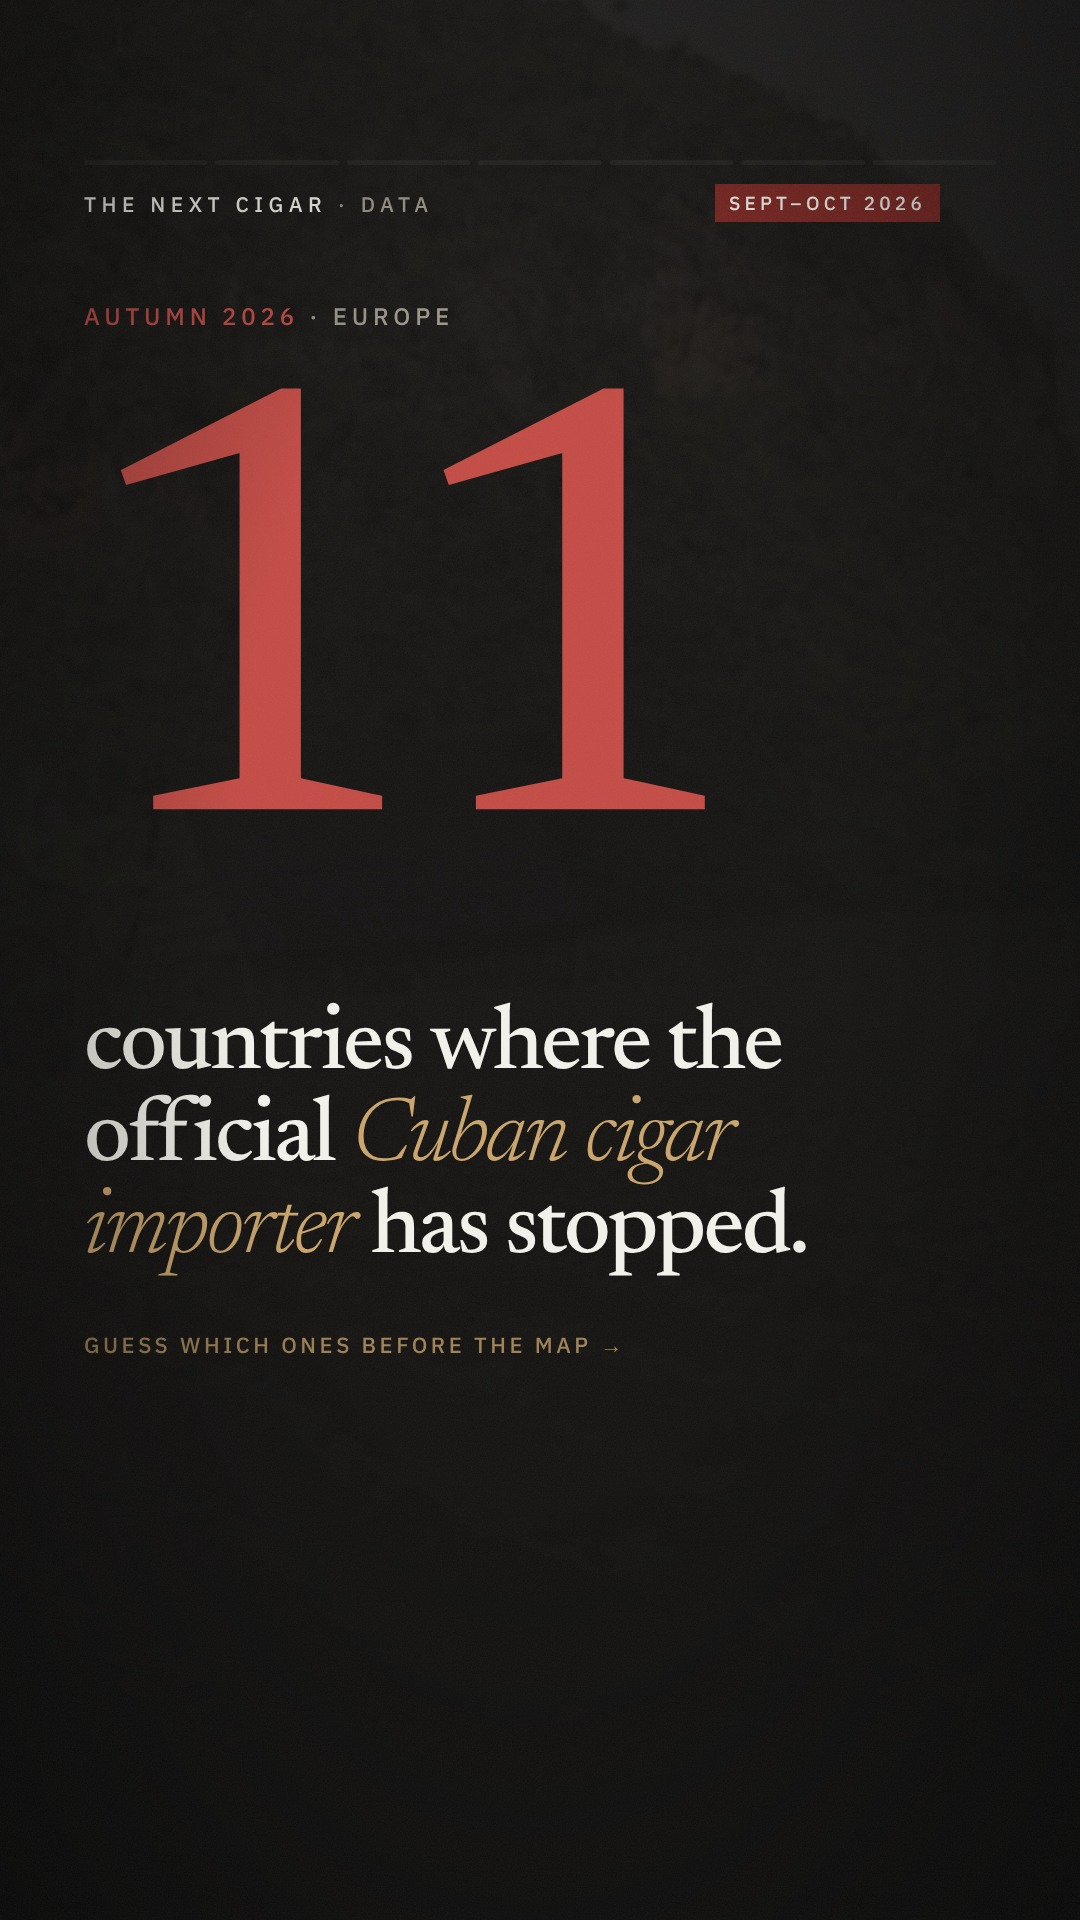
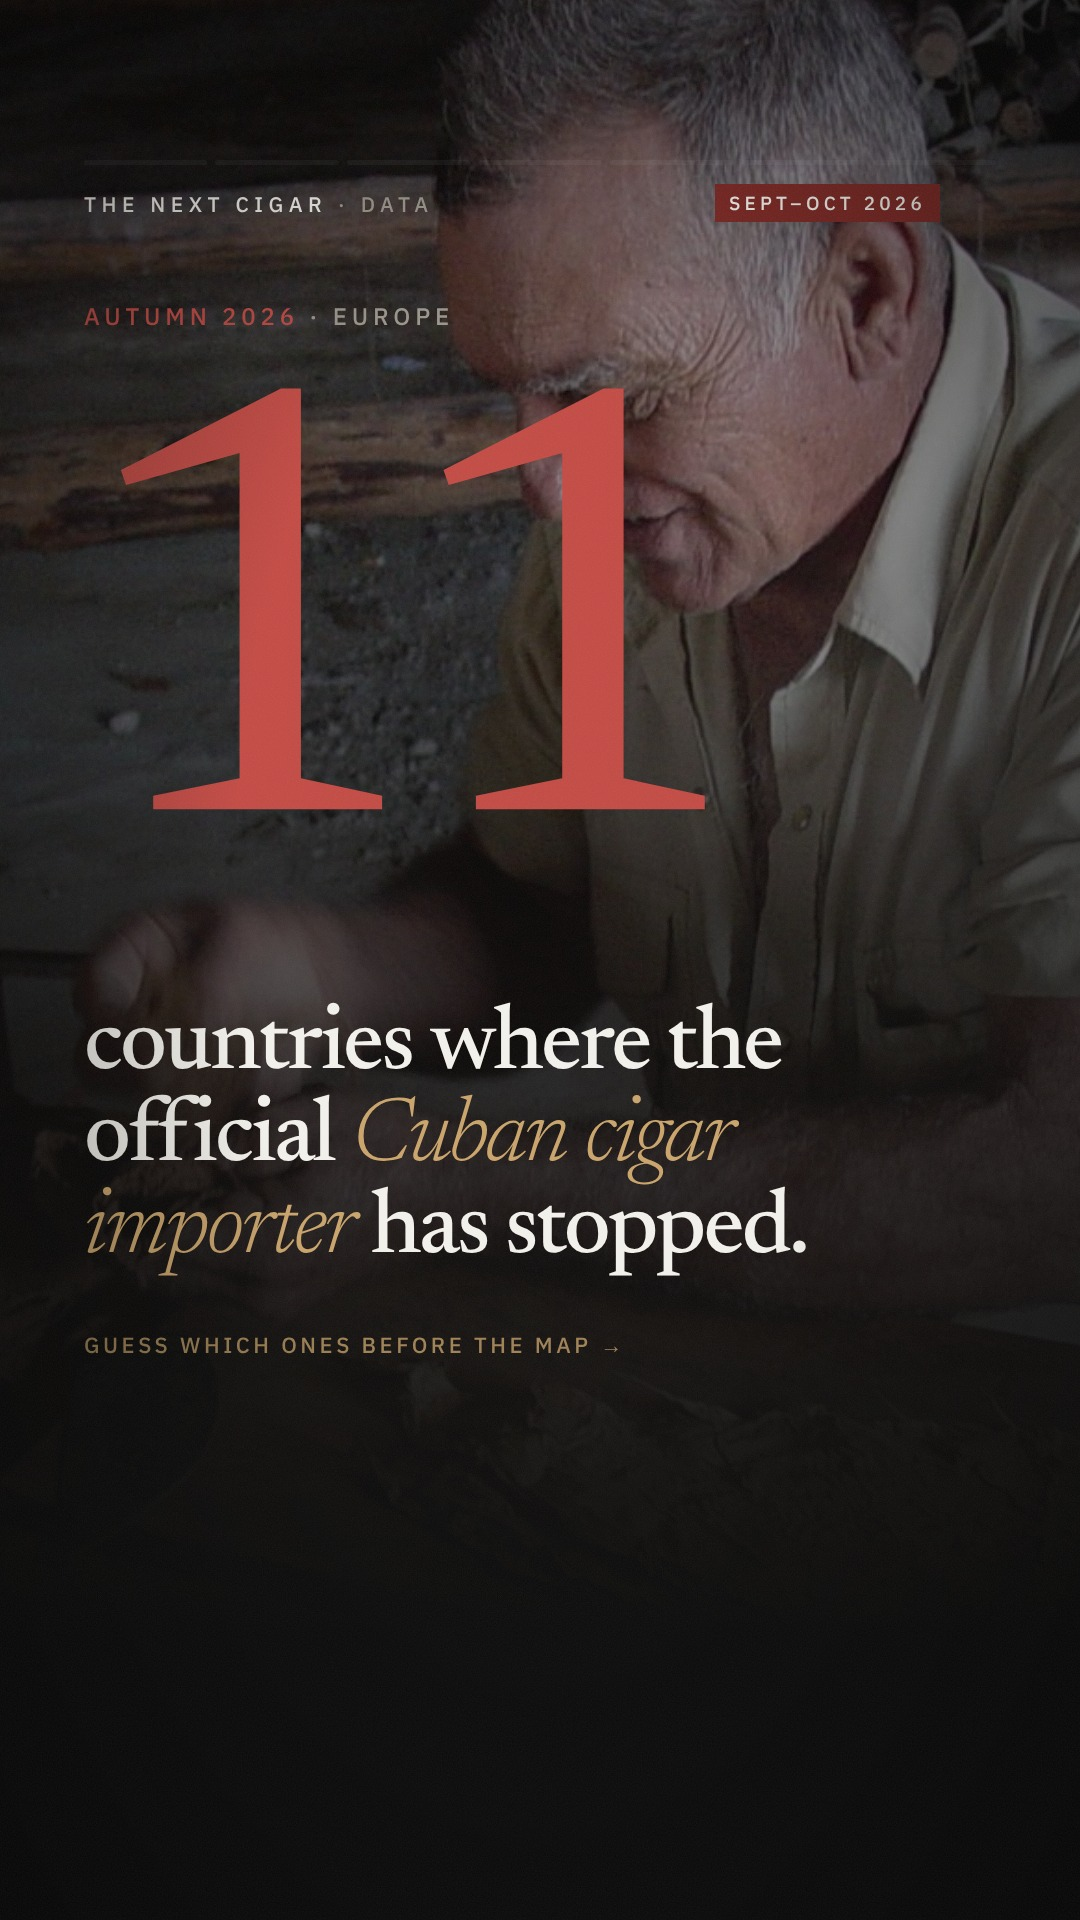
Reel 01 v2: real cigar-world photos featured on hook, Germany, Sweden and outro scenes; credits updated
Claude-Session: https://claude.ai/code/session_01NDc9TrKsSQw4dbaGwkoFWp

diff --git a/docs/social/reels/01-autumn-2026-roundup/source-v2.html b/docs/social/reels/01-autumn-2026-roundup/source-v2.html
@@ -19,6 +19,13 @@ html,body{margin:0;background:#000}
 .sc{position:absolute;inset:0;will-change:transform,opacity,clip-path;background:var(--bg)}
 .edge{position:absolute;top:0;bottom:0;width:6px;background:var(--ox);z-index:35;display:none}
 .bg{position:absolute;inset:-40px;background-size:cover;background-position:center;filter:blur(2px) saturate(.75);opacity:.22}
+.bg.strong{filter:saturate(.9) contrast(1.05);opacity:.75}
+.bg.strong:after{background:linear-gradient(180deg,rgba(18,17,16,.35) 0%,rgba(18,17,16,.25) 30%,rgba(18,17,16,.85) 62%,#121110 80%)}
+.bg.top{filter:saturate(.9);opacity:.7}
+.bg.top:after{background:linear-gradient(180deg,rgba(18,17,16,.6) 0%,rgba(18,17,16,.2) 25%,rgba(18,17,16,.55) 42%,#121110 55%)}
+.ph{position:absolute;overflow:hidden;box-shadow:0 30px 80px rgba(0,0,0,.7);will-change:transform,opacity}
+.ph img{position:absolute;inset:0;width:100%;height:100%;object-fit:cover}
+.ph .cr{position:absolute;left:12px;bottom:8px;font-family:'Plex';font-size:14px;color:rgba(242,240,234,.85);text-shadow:0 1px 6px #000}
 .bg:after{content:"";position:absolute;inset:0;background:linear-gradient(180deg,rgba(18,17,16,.55),rgba(18,17,16,.92) 55%,#121110)}
 .k{position:absolute;left:84px;top:270px;font-family:'Plex';font-weight:500;font-size:24px;letter-spacing:.2em;text-transform:uppercase;color:var(--mute)}
 .k b{color:var(--ox);font-weight:500}
@@ -50,7 +57,7 @@ const nord=['IS','NO','SE','FI','DK','EE','LV','LT'], germ=['DE','AT','PL'];
 
 const S=[]; // scenes: {dur, el, draw(local t seconds, p)}
 const root=document.getElementById('scenes');
-function scene(dur,html,img,draw){const el=$(`<div class="sc">${img?`<div class="bg" style="background-image:url(img/${img})"></div>`:''}${html}</div>`);root.appendChild(el);const o={dur,el,draw};o.init&&o.init();S.push(o);return o;}
+function scene(dur,html,img,draw,bgc=''){const el=$(`<div class="sc">${img?`<div class="bg ${bgc}" style="background-image:url(img/${img})"></div>`:''}${html}</div>`);root.appendChild(el);const o={dur,el,draw};o.init&&o.init();S.push(o);return o;}
 
 /* 0 HOOK */
 {const s=scene(3.4,`<div>
@@ -58,7 +65,7 @@ function scene(dur,html,img,draw){const el=$(`<div class="sc">${img?`<div class=
  <div id="h_n" class="big" style="position:absolute;left:70px;top:400px;font-size:620px;color:var(--ox)">0</div>
  <div id="h_t" style="position:absolute;left:84px;right:130px;top:1000px;font-size:92px;line-height:1;letter-spacing:-.03em;font-weight:500">countries where the official <i style="font-weight:300;color:var(--gold)">Cuban cigar importer</i> has stopped.</div>
  <div id="h_q" class="lbl" style="position:absolute;left:84px;top:1330px;color:var(--gold)">Guess which ones before the map →</div>
- </div>`,'field.jpg');
+ </div>`,'roller.jpg',null,'strong');
  const ws=words(s.el.querySelector('#h_t'));
  s.draw=(t)=>{const n=Math.round(11*eio(t/1.3));s.el.querySelector('#h_n').textContent=n;s.el.querySelector('#h_n').style.transform=`scale(${1+0.04*Math.sin(Math.min(t,1.3)*2.4)})`;reveal(ws,t,0.35,0.05);const q=s.el.querySelector('#h_q');q.style.opacity=eo((t-1.9)/0.4)*(0.6+0.4*Math.abs(Math.sin(t*3)));};}
 
@@ -83,15 +90,16 @@ function scene(dur,html,img,draw){const el=$(`<div class="sc">${img?`<div class=
  <h2 id="g_h">Deliveries stop. <i>Seven days later, insolvency.</i></h2>
  <div id="g_n" class="big" style="position:absolute;left:70px;top:640px;font-size:400px;color:var(--ink)">0</div>
  <div class="lbl" style="position:absolute;left:400px;top:880px;font-size:30px;color:var(--ink)">days</div>
+ <div class="ph" id="g_ph" style="left:560px;top:600px;width:436px;height:400px"><img src="img/rafters.jpg"><div class="cr">Tobacco curing, Cuba. A. Klink, CC BY 4.0</div></div>
  <svg width="912" height="420" style="position:absolute;left:84px;top:1080px">
   <line x1="20" y1="120" x2="892" y2="120" stroke="#2E2B28" stroke-width="4"/>
   <line id="g_bar" x1="20" y1="120" x2="20" y2="120" stroke="#C24A44" stroke-width="10" stroke-linecap="round"/>
   <g id="g_a"><circle cx="20" cy="120" r="16" fill="#C24A44"/><text x="0" y="60" font-size="30" font-weight="500" fill="#F2F0EA">4 SEP</text><text x="0" y="190" font-size="26" fill="#9A958A">Deliveries suspended</text><text x="0" y="226" font-size="26" fill="#9A958A">bank accounts frozen</text></g>
   <g id="g_b"><circle cx="892" cy="120" r="16" fill="#C24A44"/><text x="892" y="60" font-size="30" font-weight="500" fill="#F2F0EA" text-anchor="end">BY 11 SEP</text><text x="892" y="190" font-size="26" fill="#9A958A" text-anchor="end">Insolvency filed,</text><text x="892" y="226" font-size="26" fill="#9A958A" text-anchor="end">administrator appointed</text></g>
  </svg>
- <div class="src">Importer: 5th Avenue Products Trading GmbH. Sources: Finews, 14 Sep 2026; Cigar Aficionado, 11 Sep 2026.</div></div>`,'rafters.jpg');
+ <div class="src">Importer: 5th Avenue Products Trading GmbH. Sources: Finews, 14 Sep 2026; Cigar Aficionado, 11 Sep 2026.</div></div>`,'barn.jpg');
  const ws=words(s.el.querySelector('#g_h'));
- s.draw=(t)=>{reveal(ws,t);const p=eio((t-0.7)/1.6);s.el.querySelector('#g_n').textContent=Math.round(7*p);s.el.querySelector('#g_bar').setAttribute('x2',20+872*p);s.el.querySelector('#g_a').style.opacity=eo((t-0.5)/0.4);s.el.querySelector('#g_b').style.opacity=eo((t-2.2)/0.4);};}
+ s.draw=(t)=>{reveal(ws,t);const ph=s.el.querySelector('#g_ph');const q=eo((t-0.3)/0.6);ph.style.opacity=q;ph.style.transform=`translateY(${(1-q)*60}px) rotate(${1.5-0.5*q}deg)`;ph.querySelector('img').style.transform=`scale(${1.05+0.05*t/5.4})`;const p=eio((t-0.7)/1.6);s.el.querySelector('#g_n').textContent=Math.round(7*p);s.el.querySelector('#g_bar').setAttribute('x2',20+872*p);s.el.querySelector('#g_a').style.opacity=eo((t-0.5)/0.4);s.el.querySelector('#g_b').style.opacity=eo((t-2.2)/0.4);};}
 
 /* 3 SWEDEN licence */
 {const ev=[['15 Dec 2025','Gothenburg revokes the licence',0],['10 Jun 2026','Court rejects the appeal',177],['1 Jul 2026','Owners vote to liquidate',198],['11 Sep 2026','Licence gone for good',270]];
@@ -102,7 +110,7 @@ function scene(dur,html,img,draw){const el=$(`<div class="sc">${img?`<div class=
  <div id="w_n" class="big" style="position:absolute;left:70px;top:560px;font-size:330px;color:var(--gold)">0</div>
  <div class="lbl" style="position:absolute;left:600px;top:760px;font-size:30px;color:var(--ink)">days</div>
  <svg width="912" height="520" style="position:absolute;left:84px;top:960px"><line x1="40" y1="60" x2="40" y2="420" stroke="#2E2B28" stroke-width="4"/><line id="w_l" x1="40" y1="60" x2="40" y2="60" stroke="#C9A36A" stroke-width="6"/>${g}</svg>
- <div class="src">Elite Trading Scandinavia (formerly Habanos Nordic). Source: Realtid, 22 Oct 2026.</div></div>`,'hands.jpg');
+ <div class="src">Elite Trading Scandinavia (formerly Habanos Nordic). Source: Realtid, 22 Oct 2026.</div></div>`,'hands.jpg',null,'top');
  const ws=words(s.el.querySelector('#w_h'));const evs=[...s.el.querySelectorAll('.ev')];
  s.draw=(t)=>{reveal(ws,t);const p=eio((t-0.6)/2.6);s.el.querySelector('#w_n').textContent=Math.round(270*p);s.el.querySelector('#w_l').setAttribute('y2',60+360*p);evs.forEach((e,i)=>{const at=0.6+2.6*(i/3);const q=eo((t-at)/0.35);e.style.opacity=q;e.style.transform=`translateX(${(1-q)*30}px)`;});};}
 
@@ -181,7 +189,7 @@ function scene(dur,html,img,draw){const el=$(`<div class="sc">${img?`<div class=
  <div id="x_h" style="position:absolute;left:84px;right:130px;top:480px;font-size:120px;line-height:.95;letter-spacing:-.04em;font-weight:500">Which country <i style="font-weight:300;color:var(--gold)">is next?</i></div>
  <div id="x_c" style="position:absolute;left:84px;right:130px;top:900px;font-family:'Plex';font-weight:500;font-size:40px;line-height:1.35;color:var(--ink)">Comment your country.<br><span style="color:var(--mute)">We'll check its supply in next month's numbers.</span></div>
  <div id="x_f" class="lbl" style="position:absolute;left:84px;top:1240px;color:var(--gold);font-size:26px">Save this · Full timeline and sources: thenextcigar.com</div>
- <div class="src">Images: Wikimedia Commons (CC BY / CC BY-SA). Credits in the caption.</div></div>`,'field.jpg');
+ <div class="src">Images: Wikimedia Commons (CC BY / CC BY-SA). Credits in the caption.</div></div>`,'field.jpg',null,'strong');
  const ws=words(s.el.querySelector('#x_h'));
  s.draw=(t)=>{reveal(ws,t,0.05,0.06);s.el.querySelector('#x_c').style.opacity=eo((t-0.9)/0.4);s.el.querySelector('#x_f').style.opacity=eo((t-1.6)/0.4);};}
 

diff --git a/docs/social/reels/01-autumn-2026-roundup/caption.md b/docs/social/reels/01-autumn-2026-roundup/caption.md
@@ -41,10 +41,12 @@ Images: Wikimedia Commons, credits below.
 
 | Scene | File | Credit | Licence |
 |---|---|---|---|
-| Hook, outro | Tobacco plants in Pinar del Rio | Eduardo Manchon / Wikimedia Commons | CC BY-SA 3.0 |
-| 01, 06 | Tobacco drying in Pinar del Río (01) | Gorupdebesanez / Wikimedia Commons | CC BY-SA 3.0 |
-| 02 | Tobacco Air Curing Cuba2 | Alexander Klink / Wikimedia Commons | CC BY 4.0 |
-| 03 | Rolling a Cuban Cigar | kuhnmi / Wikimedia Commons | CC BY 2.0 |
+| Hook (full photo), 07 | Tobacco Roller on Plantation Near Pinar del Rio | Adam Jones / Wikimedia Commons | CC BY-SA 3.0 |
+| 01, 02 (background), 06 | Tobacco drying in Pinar del Río (01) | Gorupdebesanez / Wikimedia Commons | CC BY-SA 3.0 |
+| 02 (photo card) | Tobacco Air Curing Cuba2 | Alexander Klink / Wikimedia Commons | CC BY 4.0 |
+| 03 (top photo) | Rolling a Cuban Cigar | kuhnmi / Wikimedia Commons | CC BY 2.0 |
 | 04 | Rolling a cigar in Cuba | FranHogan / Wikimedia Commons | CC BY-SA 4.0 |
 | 05 | Tobacco Air Curing Cuba1 | Alexander Klink / Wikimedia Commons | CC BY 4.0 |
-| 07 | Tobacco Roller on Plantation Near Pinar del Rio | Adam Jones / Wikimedia Commons | CC BY-SA 3.0 |
+| Outro (full photo) | Tobacco plants in Pinar del Rio | Eduardo Manchon / Wikimedia Commons | CC BY-SA 3.0 |
+
+No photo shows a cigar band, box logo or brand name.
